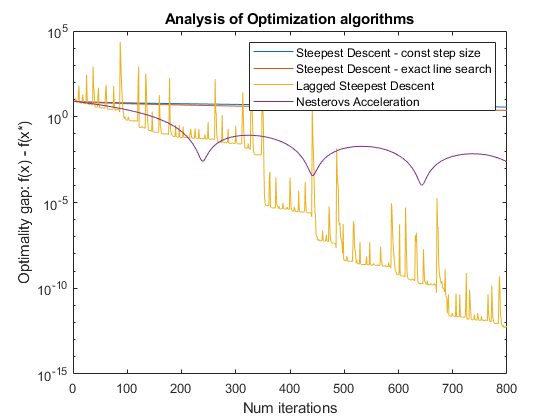
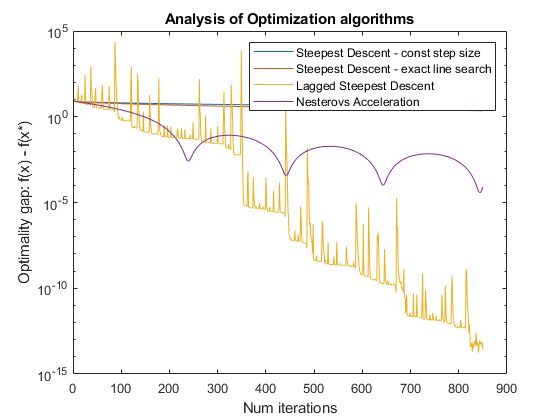
Bug in Nesterov acceleration: use yk instead of xk

diff --git a/assignments/assignment2/optimization.m b/assignments/assignment2/optimization.m
@@ -6,11 +6,11 @@ function optimization
     L = evals(n);       % We can also prove L = 4 in this case
     
     x_optimal = pinv(M) * b;
-    disp('Global min:');
+%     disp('Global min:');
     f_optimal = (1/2) * dot(M*x_optimal, x_optimal) - dot(b, x_optimal);
 %     disp(f_optimal);
     
-    iter = 800;
+    iter = 850;
     
     steep_desc_x_k = zeros(n, 1);
     steep_desc_opt_gap = [];
@@ -44,7 +44,7 @@ function optimization
         lagged_line_search_opt_gap = [lagged_line_search_opt_gap, lagged_line_search_f - f_optimal];
         
         [nest_x_k, y_k, v_k, a_k, A_k] = nesterovsMethod(nest_x_k, y_k, v_k, M, b, L, a_k, A_k);
-        nest_f = evaluate_func(M, b, nest_x_k);
+        nest_f = evaluate_func(M, b, y_k);
         nest_opt_gap = [nest_opt_gap, nest_f - f_optimal];
     end
     
